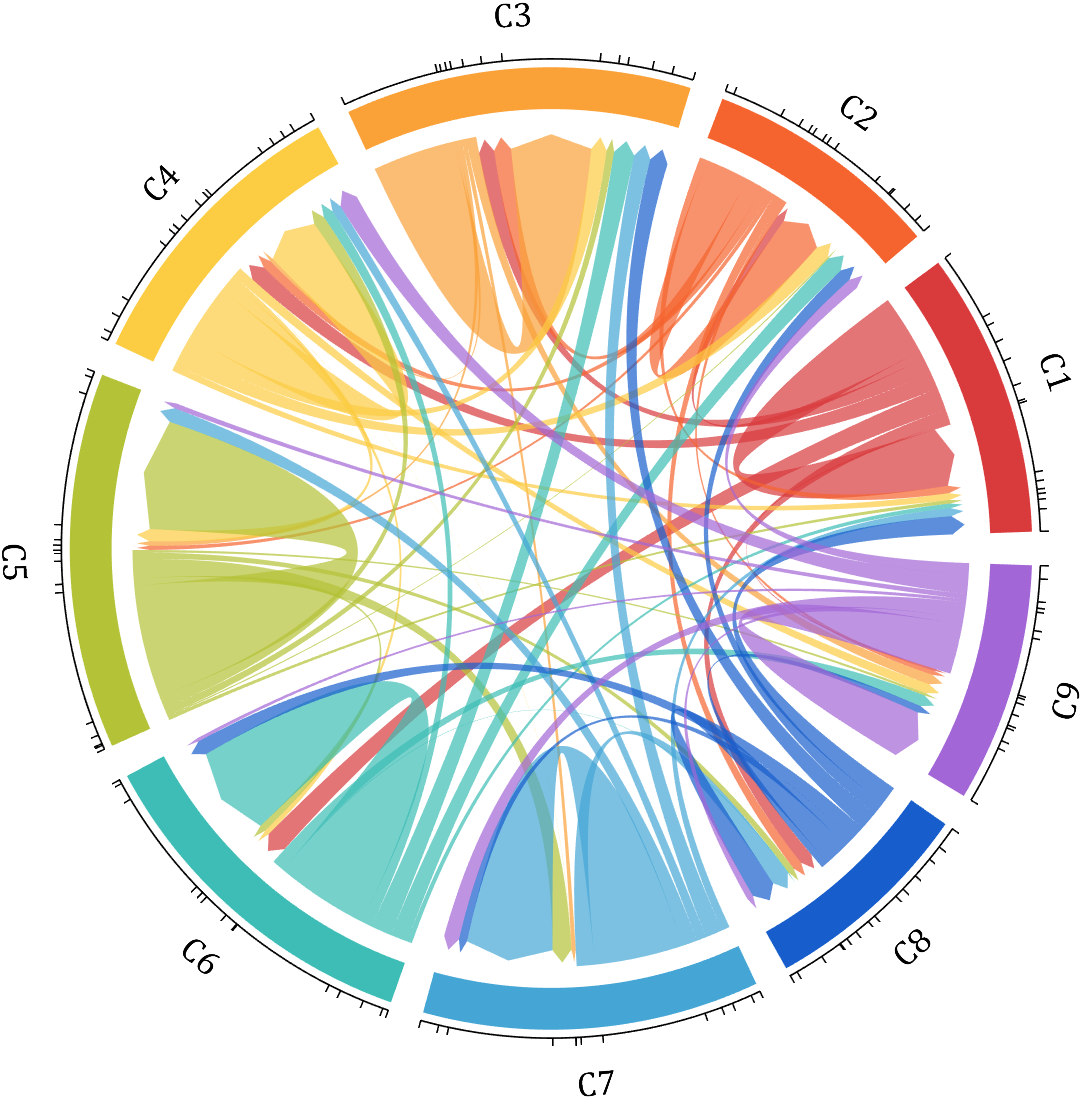
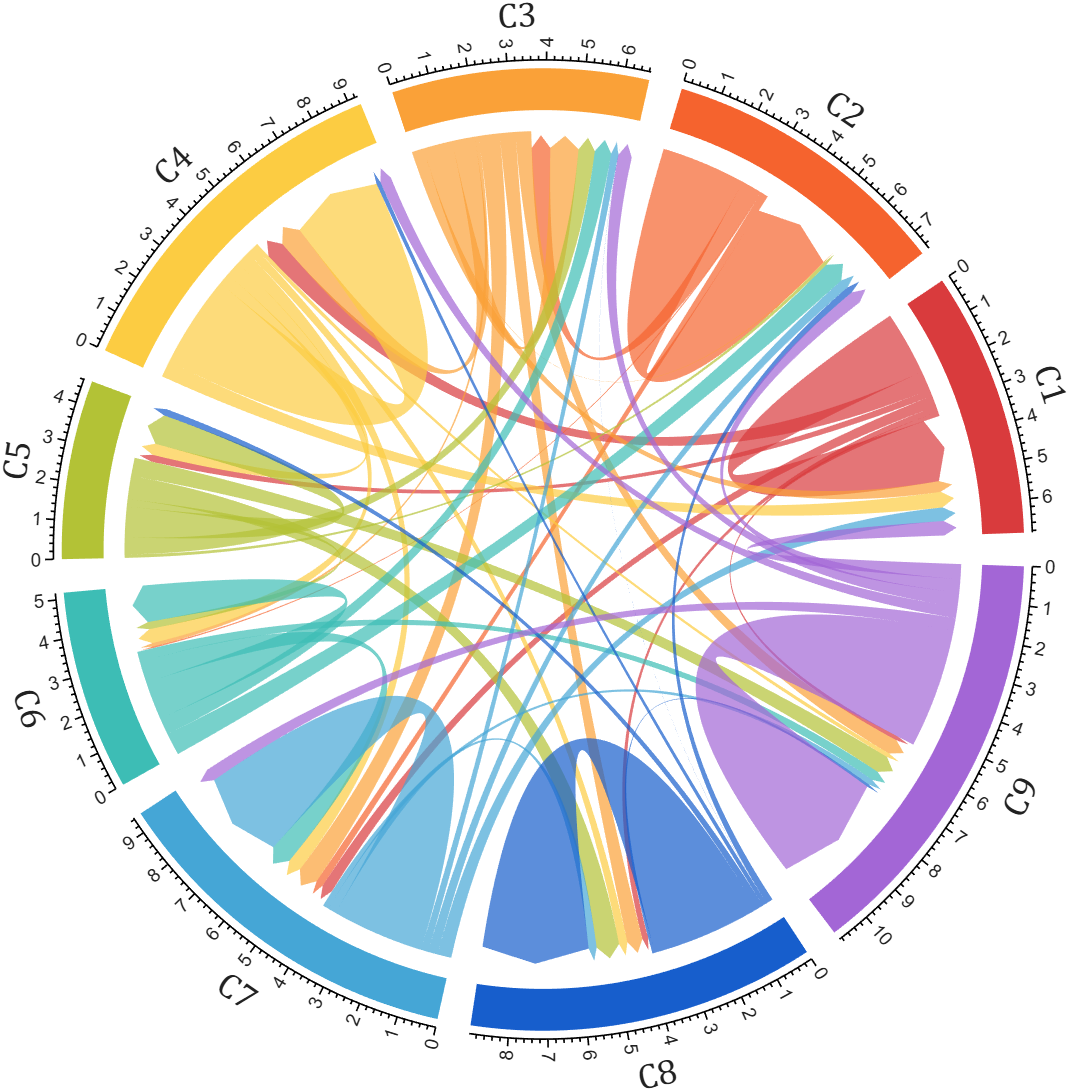
add & push by Matlab

diff --git a/Chord_Diagram_Plotting_Challenge/chordDemo17.m b/Chord_Diagram_Plotting_Challenge/chordDemo17.m
@@ -1,0 +1,40 @@
+% chordDemo17
+
+% @author : slandarer
+% 公众号  : slandarer随笔
+% 知乎    : slandarer
+
+% Data source : 
+% Lake, B.B., Menon, R., Winfree, S. et al. 
+% An atlas of healthy and injured cell states and niches in the human kidney. 
+% Nature 619, 585–594 (2023). https://doi.org/10.1038/s41586-023-05769-3
+% https://www.nature.com/articles/s41586-023-05769-3
+% 41586_2023_5769_MOESM9_ESM.xlsx | sheet : panel_d_chordplot
+dataMat = [0, 1.6e5, 6.2e5, 5.7e5, 5.9e6, 1.0e6, 2.0e6, 4.6e4, 3.9e5, 2.9e5, 1.2e7, 3.5e4, 1.9e6;
+           0,     0,     0, 3.0e5,     0, 1.4e6,     0, 2.0e0, 5.7e3,     0, 3.5e4, 4.6e3, 5.0e4;
+           0,     0,     0,     0, 1.5e6,     0, 5.4e5,     0, 5.4e4, 7.0e4, 9.2e4, 9.3e2, 5.5e4;
+           0,     0,     0,     0, 4.4e3, 4.9e6, 1.5e3, 3.8e5, 1.1e5,     0, 6.6e4, 1.8e4, 1.1e5;
+           0,     0,     0,     0,     0, 1.1e3, 4.8e6,     0, 4.5e5, 4.7e5, 7.1e5, 1.1e5, 4.3e5;
+           0,     0,     0,     0,     0,     0, 1.0e3, 1.5e5, 1.7e5,     0, 1.5e5, 3.0e4, 2.2e5;
+           0,     0,     0,     0,     0,     0,     0,     0, 8.2e4, 1.5e5, 3.2e5, 1.1e4, 1.3e5;
+           0,     0,     0,     0,     0,     0,     0,     0, 1.3e2,     0, 3.3e4,     0, 3.0e4;
+           0,     0,     0,     0,     0,     0,     0,     0,     0, 9.8e4, 1.0e5, 6.8e3, 5.5e4;
+           0,     0,     0,     0,     0,     0,     0,     0,     0,     0, 2.5e5, 1.9e3, 3.3e5;
+           0,     0,     0,     0,     0,     0,     0,     0,     0,     0,     0, 1.8e3, 6.5e5;
+           0,     0,     0,     0,     0,     0,     0,     0,     0,     0,     0,     0, 3.8e3;
+           0,     0,     0,     0,     0,     0,     0,     0,     0,     0,     0,     0,     0];
+nameList = {'Altered', 'CD', 'C-DN', 'DTL', 'PT', 'M-TAL', 'C-TAL', 'VB', 'Vessel', 'Glom', 'CD3', 'CD68', 'MPO'};
+CList = [203,122,165; 208,112, 85; 214, 95,  1; 106,103, 90;   0,114,178; 121,171,123;
+         240,228, 65; 123,199, 94;   0,160,117;  46,164,165;  85,182,231; 159,171,110; 230,157,  5]./255;
+
+figure('Units','normalized', 'Position',[.02,.05,.6,.85])
+BCC = biChordChart(dataMat, 'Label',nameList, 'Rotation',pi/1.62,...
+    'CData',CList, 'SSqRatio', -30/100, 'OSqRatio', 80/100, 'LRadius',1.21);
+BCC = BCC.draw();
+BCC.labelRotate('none')
+BCC.setChord('FaceAlpha', .5)
+
+ax=gca;
+ax.XLabel.String = {'Pairwise connections in neighbourhoods'; '(1,240,569 neighbourhoods)'};
+ax.XLabel.Color = 'k';
+ax.XLabel.FontSize = 15;

diff --git a/Chord_Diagram_Plotting_Challenge/chordDemo8.m b/Chord_Diagram_Plotting_Challenge/chordDemo8.m
@@ -13,28 +13,26 @@ rowName = {'Acidobacteriota', 'Actinobacteriota', 'Proteobacteria', ...
            'Verrucomicrobiota', 'Patescibacteria', 'Planctomyetota', 'Others'};
 
 figure('Units','normalized', 'Position',[.02,.05,.8,.85])
-CC = chordChart(dataMat, 'ColName',colName, 'Sep',1/80, 'SSqRatio',30/100);% -30/100
+CC = chordChart(dataMat, 'ColName',colName, 'Sep',1/80, 'SSqRatio',30/100);
 CC = CC.draw();
-
-% 修改上方方块颜色(Modify the color of the blocks above)
-CListT = [0.93,0.60,0.62; 0.55,0.80,0.99; 0.95,0.82,0.18; 1.00,0.81,0.91];
-CC.setSquareColorT(CListT)
-% 修改下方方块颜色(Modify the color of the blocks below)
-CListS = [0.75,0.73,0.86; 0.56,0.83,0.78; 0.00,0.60,0.20; 1.00,0.49,0.02;
-    0.78,0.77,0.95; 0.59,0.24,0.36; 0.98,0.51,0.45; 0.96,0.55,0.75;
-    0.47,0.71,0.84; 0.65,0.35,0.16; 0.40,0.00,0.64];
-CC.setSquareColorS(CListS)
-% 修改弦颜色(Modify chord color)
-CListC = [0.55,0.83,0.76; 0.75,0.73,0.86; 0.00,0.60,0.19; 1.00,0.51,0.04];
-for j = 1:size(dataMat, 2)
-    CC.setChord([], j, 'FaceColor',CListC(j,:), 'FaceAlpha',.4)
-end
-
 CC.tickState('on')
 CC.setFont('FontName','Cambria', 'FontSize',17)
 set(CC.nameSHdl, 'Visible','off')
 
-% 绘制图例(Draw legend)
+% Modify the color of the blocks above (修改上方方块颜色)
+CListT = [0.93,0.60,0.62; 0.55,0.80,0.99; 0.95,0.82,0.18; 1.00,0.81,0.91];
+CC.setSquareColorT(CListT)
+% Modify the color of the blocks below (修改下方方块颜色)
+CListS = [0.75,0.73,0.86; 0.56,0.83,0.78; 0.00,0.60,0.20; 1.00,0.49,0.02;
+    0.78,0.77,0.95; 0.59,0.24,0.36; 0.98,0.51,0.45; 0.96,0.55,0.75;
+    0.47,0.71,0.84; 0.65,0.35,0.16; 0.40,0.00,0.64];
+CC.setSquareColorS(CListS)
+% Modify chord color (修改弦颜色)
+CListC = [0.55,0.83,0.76; 0.75,0.73,0.86; 0.00,0.60,0.19; 1.00,0.51,0.04];
+for j = 1:size(dataMat, 2)
+    CC.setChord([], j, 'FaceColor',CListC(j,:), 'FaceAlpha',.4)
+end
+% Draw legend (绘制图例)
 lgdHdl = legend(CC.squareSHdl, rowName, 'Location','eastoutside', ...
     'FontSize',16, 'FontName','Cambria', 'Box','off');
 lgdHdl.ItemTokenSize = [16, 16];

diff --git a/Chord_Diagram_Plotting_Challenge/chordDemo18.m b/Chord_Diagram_Plotting_Challenge/chordDemo18.m
@@ -1,0 +1,44 @@
+% chordDemo18
+
+% @author : slandarer
+% 公众号  : slandarer随笔
+% 知乎    : slandarer
+
+% Reproduced from: 
+% Merchant, A.T., King, S.H., Nguyen, E. et al. 
+% Semantic design of functional de novo genes from a genomic language model. 
+% Nature 649, 749–758 (2026). https://doi.org/10.1038/s41586-025-09749-7
+
+rng(7)
+labels = {'AAA lid','E-set','Calycin','Ubiquitin','RNase H','PDDEXK','Cupin', ...
+    'Phage barrel','Dim A-B barrel','Peptidase CA','RING','Peptidase MA', ...
+    '\beta-Propeller','HTH','Thioredoxin','GHD','OB','PKinase','An \beta-ribbon', ...
+    'KH','SH3','TPR','GT-B','GT-A',{'ATP-';'grasp'},{'AB';'hydrolase'},{'TIM';'barrel'}, ...
+    'Hybrid','Acetyltrans',{'Actin';'ATPase'},{'NADP';'Rossmann'},{'P-loop';'NTPase'}};
+colors = [ 27, 16, 27; 107,200,173;  70,104,120;   4, 86, 92; 100,185,180;  96,100,172;
+    51,128,130; 118,184,184;  85,173,170; 146,138,171; 161,204,203;  86,175,133;
+    12,  3,  6; 185,183,204; 105,184,174; 105,201,173;  44, 88, 92; 102,183,184;
+    0,122,124;  64, 72,132; 129,207,174;  67,132,122; 113,169,172; 101,184,167;
+    165,204,218;   6, 73, 87; 102,185,178;  60, 49, 99;  78,127,140; 178,211,216;
+    109,195,168; 196,241,223]./255;
+
+data = (rand(32) > .96).*rand(32);
+data(sub2ind([32,32], randi(32,1,32), 1:32)) = rand([32, 1])*5;
+data([1,25,26,27,28,30,31,32],:) = data([1,25,26,27,28,30,31,32],:).*[15;3;18;15;3;3;5;5];
+data(:,27) = data(:,27).*3;
+
+figure()
+tt = linspace(0, 2*pi, 100); R1 = 1.08; R2 = 1.2;
+fill([cos(tt).*R1, cos(tt(end:-1:1)).*R2], [sin(tt).*R1, sin(tt(end:-1:1)).*R2], ...
+    [229,229,229]./255, 'EdgeColor','none')
+
+BCC = biChordChart(data, 'Sep',0);
+BCC.LRadius = 1.07;
+BCC.SRadius = [1, 1.05];
+BCC.Label = labels;
+BCC.CData = colors;
+BCC.draw()
+
+BCC.labelRotate('on')
+BCC.setSquare('EdgeColor','k', 'LineWidth',1)
+BCC.setChord('FaceAlpha', .5)

diff --git a/Chord_Diagram_Plotting_Challenge/chordDemo13.m b/Chord_Diagram_Plotting_Challenge/chordDemo13.m
@@ -8,30 +8,31 @@ rng(2)
 
 dataMat = randi([1,40], [7,4]);
 dataMat(rand([7,4]) < .1) = 0;
-
 colName = compose('MATLAB%d', 1:4);
 rowName = compose('SL%d', 1:7);
 
 figure('Units','normalized', 'Position',[.02,.05,.7,.85])
 CC = chordChart(dataMat, 'RowName',rowName, 'ColName',colName, 'Sep',1/80, 'LRadius',1.32, 'TickMode','auto');
 CC = CC.draw();
-% 修改上方方块颜色(Modify the color of the blocks above)
-CListT = [0.49,0.64,0.53; 0.75,0.39,0.35; 0.80,0.74,0.42; 0.40,0.55,0.66];
-CC.setSquareColorT(CListT)
-
-% 修改下方方块颜色(Modify the color of the blocks below)
-CListS = [0.91,0.91,0.97; 0.62,0.95,0.66; 0.91,0.61,0.20; 0.54,0.45,0.82;
-          0.99,0.76,0.81; 0.91,0.85,0.83; 0.53,0.42,0.43];
-CC.setSquareColorS(CListS)
-
-% 修改弦颜色(Modify chord color)
-CC.setChordColorBySquareT()
-
 CC.tickState('on')
 CC.tickLabelState('on')
 CC.setFont('FontSize',17, 'FontName','Cambria')
 CC.setTickFont('FontSize',8, 'FontName','Cambria')
 
+% Modify the color of the blocks above (修改上方方块颜色)
+CListT = [0.49,0.64,0.53; 0.75,0.39,0.35; 0.80,0.74,0.42; 0.40,0.55,0.66];
+CC.setSquareColorT(CListT)
+% Modify the color of the blocks below (修改下方方块颜色)
+CListS = [0.91,0.91,0.97; 0.62,0.95,0.66; 0.91,0.61,0.20; 0.54,0.45,0.82;
+          0.99,0.76,0.81; 0.91,0.85,0.83; 0.53,0.42,0.43];
+CC.setSquareColorS(CListS)
+% Modify chord color (修改弦颜色)
+CC.setChordColorBySquareT()
+
+CC.setSquareT('EdgeColor','k', 'LineWidth',1)
+CC.setSquareS('EdgeColor','k', 'LineWidth',1)
+
 % 绘制图例(Draw legend)
 lgdHdl = legend(CC.squareSHdl, rowName, 'Location','eastoutside', ...
     'FontSize',16, 'FontName','Cambria', 'Box','off');
+lgdHdl.ItemTokenSize = [18,8];

diff --git a/Chord_Diagram_Plotting_Challenge/chordDemo14.m b/Chord_Diagram_Plotting_Challenge/chordDemo14.m
@@ -14,20 +14,20 @@ dataMat = dataMat./sum(sum(dataMat));
 
 CList = [.33,.53,.86; .94,.50,.42; .92,.58,.30; .59,.47,.45;
          .37,.76,.82; .82,.68,.29; .75,.62,.87; .43,.69,.57];
-nameList={'CHORD', 'CHART', 'AND', 'BICHORD',...
+nameList = {'CHORD', 'CHART', 'AND', 'BICHORD',...
     'CHART', 'MADE', 'BY', 'SLANDARER'};
 
 figure('Units','normalized', 'Position',[.02,.05,.6,.85])
 BCC = biChordChart(dataMat, 'Arrow','on', 'CData',CList, 'Sep',1/12, 'Label',nameList, 'LRadius',1.33,'TickMode','auto');
 BCC = BCC.draw();
 BCC.tickState('on')
-% 修改方块颜色及弦颜色 (Modify squares and chords color)
+% Modify squares and chords color (修改方块颜色及弦颜色)
 BCC.setSquareColor(CList, CList./1.5)
 BCC.setChord('FaceAlpha',.7)
 BCC.setChordColorBySquareS()
-% 修改字体，字号及颜色 (Modify the font, font size, and color)
+% Modify the font, font size, and color (修改字体，字号及颜色)
 BCC.setFont('FontName','Cambria', 'FontSize',17)
 BCC.tickLabelState('on')
 BCC.setTickFont('FontName','Cambria', 'FontSize',9)
-% 调整数值字符串格式 (Adjust numeric string format)
+% Adjust numeric string format (调整数值字符串格式)
 BCC.setTickLabelFormat(@(x)[num2str(round(x*100)),'%'])

diff --git a/Chord_Diagram_Plotting_Challenge/chordDemo3.m b/Chord_Diagram_Plotting_Challenge/chordDemo3.m
@@ -4,21 +4,18 @@
 % 公众号  : slandarer随笔
 % 知乎    : slandarer
 
-clc;clear
-rng(2)
-dataMat = rand([15,15]);
-dataMat(dataMat > .15) = 0;
+rng(1)
+dataMat = randi([0, 5], [8, 8]);
 
-CList = [ 75,146,241; 252,180, 65; 224, 64, 10;   5,100,146; 191,191,191;
-          26, 59,105; 255,227,130;  18,156,221; 202,107, 75;   0, 92,219;
-         243,210,136;  80, 99,129; 241,185,168; 224,131, 10; 120,147,190]./255;
+CList=[ 75,146,241; 252,180, 65; 224, 64, 10;   5,100,146; 191,191,191;
+        26, 59,105; 255,227,130;  18,156,221; 202,107, 75;   0, 92,219;
+       243,210,136;  80, 99,129; 241,185,168; 224,131, 10; 120,147,190]./255;
 
 figure('Units','normalized', 'Position',[.02,.05,.6,.85])
-BCC = biChordChart(dataMat, 'Arrow','on', 'CData',CList);
+BCC = biChordChart(dataMat, 'Arrow','on', 'CData',CList,...
+    'TickMode','linear', 'SSqRatio',-30/100, 'OSqRatio',80/100);
+BCC.linearTickCompactDegree = 3;
+BCC.linearMinorTick = 'on';
 BCC = BCC.draw();
-
-% 添加刻度
 BCC.tickState('on')
-
-% 修改字体，字号及颜色
-BCC.setFont('FontName','Cambria', 'FontSize',17, 'Color',[0,0,.8])
+BCC.tickLabelState('on')

diff --git a/Chord_Diagram_Plotting_Challenge/chordDemo1.m b/Chord_Diagram_Plotting_Challenge/chordDemo1.m
@@ -15,17 +15,17 @@ rowName = {'Bartomella', 'Bradyrhizobium', 'Dysgomonas', 'Enterococcus',...
 
 figure('Units','normalized', 'Position',[.02,.05,.6,.85])
 CC = chordChart(dataMat, 'RowName',rowName, 'ColName',colName, 'Sep',1/80, 'TickMode','auto').draw();
-% 修改上方方块颜色(Modify the color of the blocks above)
+% Modify the color of the blocks above (修改上方方块颜色)
 CListT = [0.7765 0.8118 0.5216; 0.4431 0.4706 0.3843; 0.5804 0.2275 0.4549;
           0.4471 0.4039 0.6745; 0.0157 0      0     ];
 CC.setSquareColorT(CListT)
-% 修改下方方块颜色(Modify the color of the blocks below)
+% Modify the color of the blocks below (修改下方方块颜色)
 CListS = [0.5843 0.6863 0.7843; 0.1098 0.1647 0.3255; 0.0902 0.1608 0.5373;
           0.6314 0.7961 0.2118; 0.0392 0.2078 0.1059; 0.0157 0      0     ;
           0.8549 0.9294 0.8745; 0.3882 0.3255 0.4078; 0.5020 0.7216 0.3843;
           0.0902 0.1843 0.1804; 0.8196 0.2314 0.0706];
 CC.setSquareColorS(CListS)
-% 修改弦颜色(Modify chord color)
+% Modify chord color (修改弦颜色)
 CC.setChordColorBySquareT()
 CC.setChord('FaceAlpha',.5)
 

diff --git a/Chord_Diagram_Plotting_Challenge/chordDemo19.m b/Chord_Diagram_Plotting_Challenge/chordDemo19.m
@@ -1,0 +1,39 @@
+% chordDemo19
+
+% @author : slandarer
+% 公众号  : slandarer随笔
+% 知乎    : slandarer
+
+rng(6)
+% Made up some data casually (随便捏造了点数据)
+X = randn(20,15) + [(linspace(-1,2.5,20)').*ones(1,6), (linspace(.5,-.7,20)').*ones(1,5), (linspace(.9,1.8,20)').*ones(1,4)];
+% Get the correlation matrix (求相关系数矩阵)
+dataMat = triu(corr(X), 1);
+
+CList = hsv(16)./1.1;
+CMap = [227,26,28; 255,255,255; 50,160,44]./255;
+CMap = interp1([0,.5,1], CMap, linspace(0, 1, 15));
+
+figure('Units','normalized', 'Position',[.02,.05,.6,.85])
+BCC = biChordChart(dataMat, 'CData',CList, 'TickMode','linear');
+BCC.LinearTickCompactDegree = 1.5;
+BCC.LinearMinorTick = 'on';
+BCC.SRadius = [1.03, 1.08];
+BCC.TRadius = 1.08;
+BCC.LRadius = 1.2;
+BCC = BCC.draw();
+BCC.tickState('on')
+BCC.tickLabelState('on')
+
+BCC.setFont('FontName','Cambria', 'FontSize',17)
+BCC.setChordCData(dataMat)
+BCC.setChord('FaceAlpha',.5)
+
+clim([-.7, .7])
+colormap(CMap)
+cbHdl = colorbar();
+cbHdl.Position = [.88, .3, .02, .4];
+cbHdl.TickDirection = 'out';
+cbHdl.FontName = 'Cambria';
+cbHdl.LineWidth = 1;
+

diff --git a/Chord_Diagram_Plotting_Challenge/chordDemo10.m b/Chord_Diagram_Plotting_Challenge/chordDemo10.m
@@ -19,22 +19,18 @@ CC = chordChart(dataMat, 'ColName',colName, 'RowName',rowName, 'Sep',1/80, 'LRad
 CListT = [0.47 0.58 0.75; 0.48 0.54 0.58; 0.65 0.72 0.65; 0.94 0.92 0.90; 0.98 0.76 0.68];
 CC.setSquareColorT(CListT);
 CC.setSquareT('EdgeColor',[0,0,0])
-
 % Modify chord color (修改弦颜色)
 CC.setChordColorBySquareT()
 CC.setChord('FaceAlpha',.9, 'EdgeColor',[0,0,0])
-
 % Modify the color of the blocks below (修改下方方块颜色)
 logFC = sort(rand(1, 14))*6 - 3;
 CC.setSquareCDataS(logFC)
 CC.setSquareS('EdgeColor',[0,0,0])
 set(CC.nameTHdl, 'Visible','off')
-
 % A diverging red-white-blue colormap (一个红白蓝配色 colormap)
 CMap = interp1([0,.5,1].', [0,0,1;1,1,1;1,0,0], linspace(0,1,50).');
 colormap(CMap); clim([-3,3]); colorbar('Position', [.74,.25,.02,.2]);
-
 % Draw legend
 text([1.25, 1.25], [-.15, 1], {'LogFC', 'Terms'}, 'FontSize',16)
-lgdHdl = legend(CC.squareTHdl, colName, 'Position',[.735,.53,.167,.27], 'FontSize',14, 'Box','off');
+lgdHdl = legend(CC.squareTHdl, colName, 'Position',[.735,.6,.167,.2], 'FontSize',14, 'Box','off');
 lgdHdl.ItemTokenSize = [18,8];

diff --git a/Chord_Diagram_Plotting_Challenge/chordDemo6.m b/Chord_Diagram_Plotting_Challenge/chordDemo6.m
@@ -16,11 +16,11 @@ rowName = compose('SL%d', 1:20);
 figure('Units','normalized', 'Position',[.02,.05,.6,.85])
 CC = chordChart(dataMat, 'RowName',rowName, 'ColName',colName, 'Sep',1/80, 'LRadius',1.23);
 CC = CC.draw();
-% 修改上方方块颜色(Modify the color of the blocks above)
+% Modify the color of the blocks above (修改上方方块颜色)
 CListT = [0.62,0.49,0.27; 0.28,0.57,0.76
           0.25,0.53,0.30; 0.86,0.48,0.34];
 CC.setSquareColorT(CListT)
-% 修改下方方块颜色(Modify the color of the blocks below)
+% Modify the color of the blocks below (修改下方方块颜色)
 CListS = [0.94,0.84,0.60; 0.16,0.50,0.67; 0.92,0.62,0.49;
     0.48,0.44,0.60; 0.48,0.44,0.60; 0.71,0.79,0.73;
     0.96,0.98,0.98; 0.51,0.82,0.95; 0.98,0.70,0.82;
@@ -30,7 +30,7 @@ CListS = [0.94,0.84,0.60; 0.16,0.50,0.67; 0.92,0.62,0.49;
     0.75,0.75,0.75; 1.00,1.00,1.00];
 CC.setSquareColorS(CListS)
 CC.setSquareS(size(dataMat, 1), 'EdgeColor','k', 'LineWidth',1)
-% 修改弦颜色(Modify chord color)
+% Modify chord color (修改弦颜色)
 CC.setChordColorBySquareT()
 
 CC.tickState('on')

diff --git a/Chord_Diagram_Plotting_Challenge/chordDemo4.m b/Chord_Diagram_Plotting_Challenge/chordDemo4.m
@@ -9,7 +9,6 @@ dataMat = [110, 13,  2,  6, 12
              5, 11, 50,  6,  6
             19,  6,  4, 13,  6
             10,  4, 18, 12, 50];
-
 CList = [247,204,138; 128,187,185; 245,135,124; 140,199,197; 252,223,164]./255;
 % CList = [164,190,158; 216,213,153; 177,192,208; 238,238,227; 249,217,153]./255;
 
@@ -19,11 +18,11 @@ figure('Units','normalized', 'Position',[.02,.05,.6,.85])
 BCC = biChordChart(dataMat, 'Arrow','on', 'CData',CList, 'Sep',1/30, 'Label',NameList, 'LRadius',1.33);
 BCC = BCC.draw();
 BCC.tickState('on')
-% 修改方块颜色及弦颜色 (Modify squares and chords color)
+% Modify squares and chords color (修改方块颜色及弦颜色)
 BCC.setSquareColor(CList, CList./1.2)
 BCC.setChord('FaceAlpha',.7)
 BCC.setChordColorBySquareS()
-% 修改字体，字号及颜色 (Modify the font, font size, and color)
+% Modify the font, font size, and color (修改字体，字号及颜色)
 BCC.setFont('FontName','Cambria', 'FontSize',17)
 BCC.tickLabelState('on')
 BCC.setTickFont('FontName','Cambria', 'FontSize',9)

diff --git a/Chord_Diagram_Plotting_Challenge/chordDemo5.m b/Chord_Diagram_Plotting_Challenge/chordDemo5.m
@@ -15,21 +15,19 @@ rowName = [compose('A%d', 1:7), compose('B%d', 7:-1:1)];
 figure('Units','normalized', 'Position',[.02,.05,.6,.85])
 CC = chordChart(dataMat, 'RowName',rowName, 'ColName',colName, 'Sep',1/80);
 CC = CC.draw();
+CC.tickState('on')
+CC.tickLabelState('on')
 
-% 修改上方方块颜色(Modify the color of the blocks above)
+% Modify the color of the blocks above (修改上方方块颜色)
 CC.setSquareT('FaceColor',[190,190,190]./255)
-
-% 修改下方方块颜色(Modify the color of the blocks below)
+% Modify the color of the blocks below (修改下方方块颜色)
 CListS = [255,244,138; 253,220,117; 254,179, 78; 253,190, 61;
           252, 78, 41; 228, 26, 26; 178,  0, 36;   4, 84,119;
             1,113,137;  21,150,155;  67,176,173;  68,173,158;
           123,204,163; 184,229,162]./255;
 CC.setSquareColorS(CListS)
-
-% 修改弦颜色(Modify chord color)
+% Modify chord color (修改弦颜色)
 CC.setChordColorBySquareS()
 CC.setChord('FaceAlpha',.5)
 
 
-CC.tickState('on')
-CC.tickLabelState('on')
